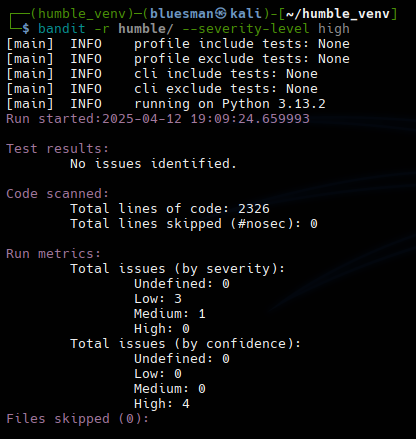
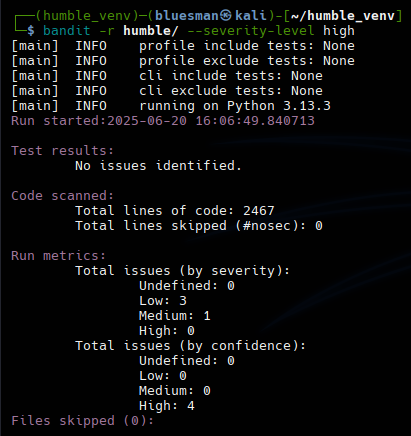
Minor: README updated

diff --git a/humble.py b/humble.py
@@ -159,7 +159,7 @@ URL_STRING = ('rfc-st', ' URL  : ', 'https://caniuse.com/?')
 XML_STRING = ('Ref: ', 'Value: ', 'Valor: ')
 
 current_time = datetime.now().strftime("%Y/%m/%d - %H:%M:%S")
-local_version = datetime.strptime('2025-06-15', '%Y-%m-%d').date()
+local_version = datetime.strptime('2025-06-20', '%Y-%m-%d').date()
 
 
 class SSLContextAdapter(requests.adapters.HTTPAdapter):

diff --git a/README.md b/README.md
@@ -6,7 +6,7 @@
 <a target="_blank" href="https://devguide.python.org/versions/" title="Minimum Python version required to run this tool"><img src="https://img.shields.io/badge/Python-%3E%3D3.11-blue?labelColor=343b41"></a>
 <a target="_blank" href="LICENSE" title="License of this tool"><img src="https://img.shields.io/badge/License-MIT-blue.svg?labelColor=343b41"></a>
 <a target="_blank" href="https://github.com/rfc-st/humble/releases" title="Latest release of this tool"><img src="https://img.shields.io/github/v/release/rfc-st/humble?display_name=release&label=Latest%20Release&labelColor=343b41"></a>
-<a target="_blank" href="https://github.com/rfc-st/humble/commits/master" title="Latest commit of this tool"><img src="https://img.shields.io/badge/Latest_Commit-2025--06--15-blue.svg?labelColor=343b41"></a>
+<a target="_blank" href="https://github.com/rfc-st/humble/commits/master" title="Latest commit of this tool"><img src="https://img.shields.io/badge/Latest_Commit-2025--06--20-blue.svg?labelColor=343b41"></a>
 <a target="_blank" href="https://pkg.kali.org/pkg/humble" title="Official tool in Kali Linux"><img src="https://img.shields.io/badge/Kali%20Linux-Tool-blue?labelColor=343b41"></a>
 <br />
 <a target="_blank" href="#" title="Featured on:"><img src="https://img.shields.io/badge/Featured%20on:-343b41"></a>
@@ -20,7 +20,7 @@
 <a target="_blank" href="https://qiita.com/prograti/items/8eea5d60056f6df0d160#humble" title="Security Tools in Kali Linux"><img src="https://img.shields.io/badge/Qiita-blue"></a>
 <br />
 <a target="_blank" href="https://github.com/rfc-st/humble/blob/master/screenshots/humble_bandit.PNG" title="Results of the last analysis of this tool with bandit"><img src="https://img.shields.io/badge/bandit-passing-32bd50?labelColor=383e44"></a>
-<a target="_blank" href="https://github.com/rfc-st/humble/actions?query=workflow%3ACodeQL" title="Results of the last analysis of this tool with CodeQL"><img src="https://github.com/rfc-st/humble/workflows/CodeQL/badge.svg"></a>
+<a target="_blank" href="https://github.com/rfc-st/humble/actions/workflows/codeql-analysis.yml?query=workflow%3ACodeQL" title="CodeQL security analysis passed"><img src="https://github.com/rfc-st/humble/workflows/CodeQL/badge.svg"></a>
 <a target="_blank" href="https://www.bestpractices.dev/projects/9543" title="OpenSSF best practices analysis"><img src="https://www.bestpractices.dev/projects/9543/badge"></a>
 <br />
 <br />
